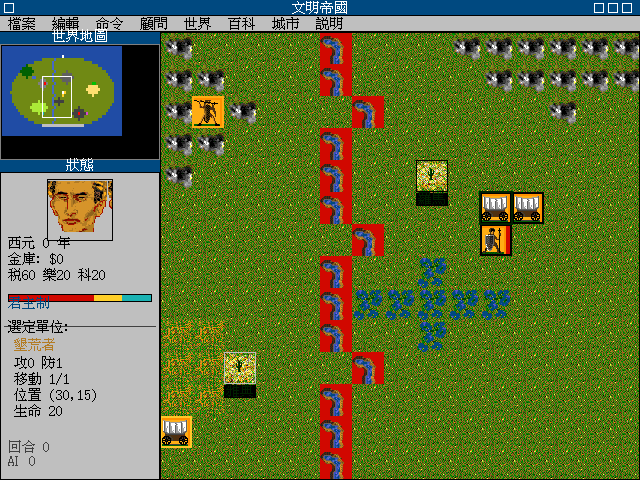
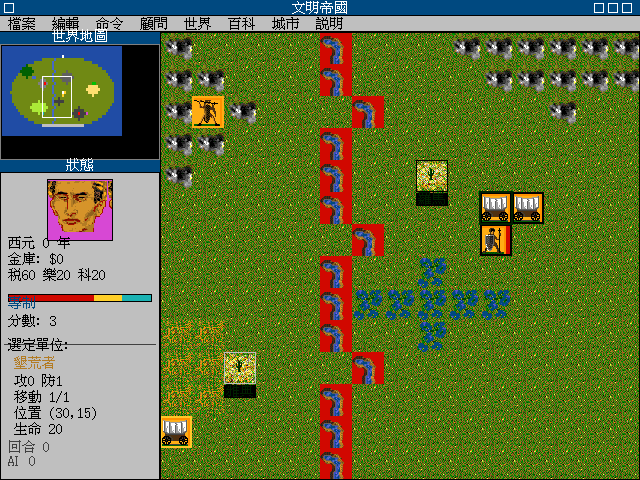
R27-A: Score 公式 v0.2 — 接通 status panel + wonders + future tech
R26-D Score 公式 v0.1 接好結構但只算 content + peace 兩因子.
v0.2 把 wonders / future_tech 兩個結構接通, 並把分數顯示到 status panel.

1. status.c 新增「分數: N」行 (位於政府名稱與分隔線之間),
   call civ_score_total(g, player_civ_slot) 套用 §9.3 公式.
   玩家在主畫面立即看到當前文明分數.

2. city.h 新增 wonders_bitmap (uint32_t) — 跟既有 buildings_bitmap
   分離. wonder enum 對齊 world/wonder.h (CIV_WONDER_PYRAMIDS=1..21
   + 2 OpenCivOne v0.3 條目). score.c count_wonders 透過迭代
   alive city 累加 popcount(wonders_bitmap @ owner=player_slot).

3. world.h 新增 tech_acquired[2] (128 bit, 用 72; tech.h enum 0..71).
   score.c future_tech 算 bit 68..71 (CIV_TECH_FUTURE_1..4) popcount.

4. test_score.c 加 3 個新 sub-test (8/9/10):
   - 3 wonder + 2 city → wonders_owned=3, +60 加到 base
   - 2 future tech → future_tech=2, +20 加到 base
   - 完整公式 sanity: 2 content + 60 wonders + 10 future + 15 peace = 87

5. m10_main_zhtw.png regen — 證明「分數: 3」實際 render 上 status panel.

ctest: 20/20 PASS. Refs: tasks #163-#166.

Changed region(s): [[0.0, 0.5938, 0.1562, 0.9062], [0.0625, 0.4062, 0.1875, 0.5]]

diff --git a/team-b/src/world/score.c b/team-b/src/world/score.c
@@ -34,13 +34,24 @@ static void count_citizens(const struct civ_game *g, int player_slot,
     *content = total_pop;    /* 全部視為 content */
 }
 
-/* v0.1: buildings_bitmap 25 bit 暫不區分「Wonder vs 一般 building」—
- * 對齊 spec 06 §6.2 待 wonder slot RE 完成後拆.
- * 暫回 0 (合 §9.3 保守). 之後接 player wonders bitmap. */
+/* R27-A: 接通 city.wonders_bitmap (22 bit 對齊 world/wonder.h).
+ * spec 09 §9.3 公式裡 wonders_owned 算 player 當前持有 wonder 數
+ * (即使被搶/搶來都算當前持有者). */
 static int count_wonders(const struct civ_game *g, int player_slot)
 {
-    (void)g; (void)player_slot;
-    return 0;
+    int count = 0;
+    const civ_world_t *w = &g->world;
+    for (int i = 0; i < w->cities_count; i++) {
+        const civ_city_t *c = &w->cities[i];
+        if (!c->alive) continue;
+        if (c->owner != (uint8_t)player_slot) continue;
+        uint32_t bm = c->wonders_bitmap;
+        while (bm) {
+            count += (bm & 1);
+            bm >>= 1;
+        }
+    }
+    return count;
 }
 
 void civ_score_compute(const struct civ_game *g, int player_slot,
@@ -61,7 +72,15 @@ void civ_score_compute(const struct civ_game *g, int player_slot,
      * 之後接 civ_world.war_with_bitmap 後改成「自上次戰鬥起 turns」. */
     out->turns_of_peace = (int)g->turn_number;
 
-    out->future_tech      = 0;   /* v0.1: 沒追蹤 tech_acquired set */
+    /* R27-A: 接通 world.tech_acquired bitmap (72 bit, tech.h enum).
+     * future_tech = popcount(CIV_TECH_FUTURE_1..4 bits 68..71). */
+    {
+        int ft = 0;
+        for (int i = 68; i < 72; i++) {
+            if (g->world.tech_acquired[i / 64] & (1ULL << (i % 64))) ft++;
+        }
+        out->future_tech = ft;
+    }
     out->polluted_squares = 0;   /* v0.1: 沒 pollution overlay */
     out->space_bonus      = 0;   /* v0.1: 沒太空船 */
     out->conquest_bonus   = 0;   /* v0.1: 沒征服 flag */

diff --git a/team-b/tests/test_score.c b/team-b/tests/test_score.c
@@ -123,6 +123,47 @@ int main(void)
         EXPECT(b.total > 0);
     }
 
-    printf("PASS test_score (7 sub-tests, spec 09 §9.3 v0.1)\n");
+    /* 8. R27-A: wonders bitmap 接通. 3 wonder in 2 cities (player slot 1)
+     * → wonders_owned = 3, +20*3 = 60 加到 base */
+    {
+        struct civ_game g = {0};
+        g.turn_number = 0;
+        seed_city(&g, 0, 0, 1, 1, "Rome");
+        seed_city(&g, 1, 1, 1, 1, "Pisa");
+        g.world.cities[0].wonders_bitmap = (1u << 1) | (1u << 3); /* Pyramids + Colossus */
+        g.world.cities[1].wonders_bitmap = (1u << 5);             /* Great Library */
+        civ_score_breakdown_t b;
+        civ_score_compute(&g, 1, &b);
+        EXPECT(b.wonders_owned == 3);
+        /* content = 1+1 = 2; peace = 0; wonders = 3; total = 2 + 60 = 62 */
+        EXPECT(b.total == 62);
+    }
+
+    /* 9. R27-A: future_tech bitmap 接通. 2 future tech 設成 acquired
+     * → future_tech = 2, +10*2 = 20 加到 base */
+    {
+        struct civ_game g = {0};
+        g.turn_number = 0;
+        /* set bits 68 (FUTURE_1) + 71 (FUTURE_4) */
+        g.world.tech_acquired[1] = (1ULL << (68 - 64)) | (1ULL << (71 - 64));
+        civ_score_breakdown_t b;
+        civ_score_compute(&g, 1, &b);
+        EXPECT(b.future_tech == 2);
+        EXPECT(b.total == 20);
+    }
+
+    /* 10. R27-A: 完整公式 — 2 city + 3 wonder + 1 future + turn 5
+     * = 2 content + 60 wonders + 10 future + 15 peace = 87 */
+    {
+        struct civ_game g = {0};
+        g.turn_number = 5;
+        seed_city(&g, 0, 0, 1, 1, "A");
+        seed_city(&g, 1, 1, 1, 1, "B");
+        g.world.cities[0].wonders_bitmap = (1u << 1) | (1u << 2) | (1u << 3);
+        g.world.tech_acquired[1] = 1ULL << (68 - 64);
+        EXPECT(civ_score_total(&g, 1) == 87);
+    }
+
+    printf("PASS test_score (10 sub-tests, spec 09 §9.3 v0.2 wonders+future tied)\n");
     return 0;
 }

diff --git a/team-b/src/widgets/status.c b/team-b/src/widgets/status.c
@@ -6,6 +6,7 @@
 #include "../text/text_out.h"
 #include "../world/diplomat.h"
 #include "../world/government.h"
+#include "../world/score.h"
 
 #include <stdio.h>
 #include <stdlib.h>
@@ -177,6 +178,15 @@ static void status_render(civ_widget_t *w, civ_surface_t *fb)
         : "專制";
     civ_text_out(fb, font, x, y, gov_name, c_blue, c_body_bg, CIV_TEXT_BK_TRANSPARENT);
     y += 18;
+
+    /* R27-A: 文明分數 — civ_score_total 套 spec 09 §9.3 公式 (manual P23).
+     * 顯示玩家當前分數, 玩家 civ slot 1..14. */
+    if (w->game->world_ready) {
+        int score = civ_score_total(w->game, w->game->world.player_civ_slot);
+        snprintf(buf, sizeof buf, "分數: %d", score);
+        civ_text_out(fb, font, x, y, buf, c_black, c_body_bg, CIV_TEXT_BK_TRANSPARENT);
+        y += 18;
+    }
 
     /* 分隔線 — 灰底上的細黑線 */
     civ_hline(fb, w->rect.x + 4, y, w->rect.w - 8, c_grey_txt);

diff --git a/team-b/src/world/world.h b/team-b/src/world/world.h
@@ -61,6 +61,11 @@ typedef struct civ_world {
      * 預設 1=Despotism (新文明開局). diplomat scene + status panel 顯示此值.
      * R25+ 接 government revolution flow. */
     int        player_government;
+
+    /* R27-A: 玩家已研發 tech bitmap. bit N (N=0..71) = CIV_TECH_NONE..FUTURE_5.
+     * 對齊 world/tech.h CIV_TECH_COUNT=72. spec 09 §9.3 future_tech 因子算
+     * tech_id >= CIV_TECH_FUTURE_1 (=68) 的 bit count. tech 0 = NONE 不算. */
+    uint64_t   tech_acquired[2];   /* 2×64 = 128 bit, 用 72 個; future-proof. */
 } civ_world_t;
 
 /* R24: 政府型態 → GOVT*M sheet idx (CIVDATA2 內只有 3 種 backdrop):

diff --git a/team-b/src/world/city.h b/team-b/src/world/city.h
@@ -25,6 +25,9 @@ typedef struct civ_city {
     int16_t  shield_stock;          /* 累積生產進度 */
     int16_t  food_stock;            /* 食物 storage */
     uint32_t buildings_bitmap;      /* 25-bit bitmap, bit N = built building N */
+    uint32_t wonders_bitmap;        /* R27-A: 22-bit bitmap (CIV_WONDER_PYRAMIDS=1..21
+                                       + 2 OpenCivOne SETI/Cure). bit N = 已建造
+                                       wonder enum N (對齊 world/wonder.h). */
     bool     alive;
 } civ_city_t;
 
